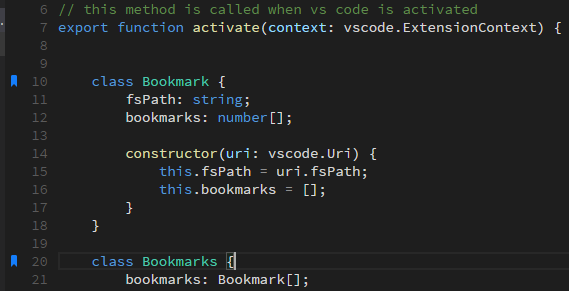
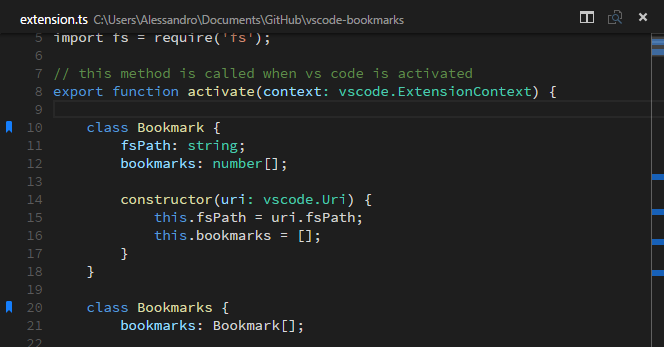
Closes #14

diff --git a/extension.ts b/extension.ts
@@ -67,7 +67,9 @@ export function activate(context: vscode.ExtensionContext) {
 	
  //	let pathIcon = context.asAbsolutePath('images\\bookmark.png');
 	var bookmarkDecorationType = vscode.window.createTextEditorDecorationType({
-		gutterIconPath: pathIcon
+		gutterIconPath: pathIcon,
+        overviewRulerLane: vscode.OverviewRulerLane.Full,
+        overviewRulerColor: 'rgba(21, 126, 251, 0.7)'
 	});
 
 	// Connect it to the Editors Events

diff --git a/README.md b/README.md
@@ -58,6 +58,10 @@ It also works even if you only _preview_ a file (simple click in TreeView). You 
 
 # Changelog
 
+## Version 0.5.0
+
+* **New:** Bookmarks are also rendered in the overview ruler
+
 ## Version 0.4.0
 
 * **New Command:** List all bookmarks from the current file
